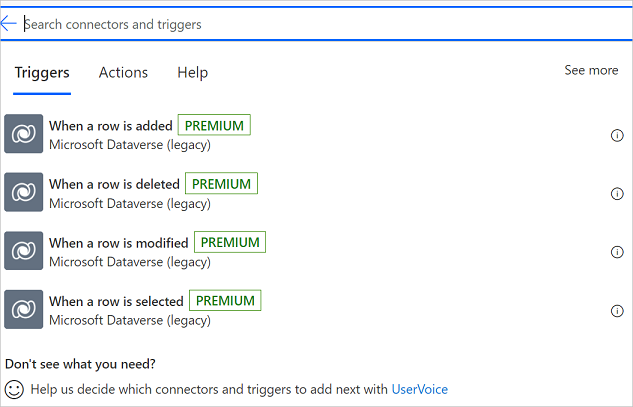
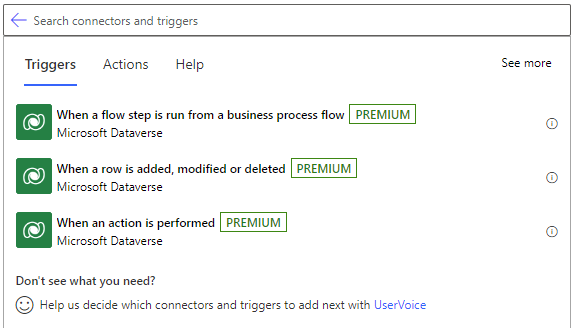
legacy

Changed region(s): [[0.0, 0.0, 1.0, 1.0], [0.2661, 0.1524, 0.3548, 0.2134]]

diff --git a/articles/connection-cds.md b/articles/connection-cds.md
@@ -5,16 +5,15 @@ services: ''
 suite: flow
 documentationcenter: na
 author: MSFTMAN
-manager: KVIVEK
+manager: tapanm
 editor: ''
 tags: ''
-
 ms.devlang: na
 ms.subservice: cloud-flow
 ms.topic: article
 ms.tgt_pltfrm: na
 ms.workload: na
-ms.date: 09/13/2021
+ms.date: 08/12/2022
 ms.author: Deonhe
 search.app: 
   - Flow
@@ -25,25 +24,22 @@ search.audienceType:
 
 # Create an automated flow with Microsoft Dataverse
 
-
-
 >[!IMPORTANT]
->There are three connectors available to connect to Dataverse. Use the recommended [Microsoft Dataverse connector](./dataverse/overview.md). The **Microsoft Dataverse (legacy)** connector, covered in this article, and the [Dynamics 365 connector](/connectors/dynamicscrmonline/) are available if you are unable to use the recommended connector.
+>To connect to Dataverse, use the recommended [Microsoft Dataverse connector](./dataverse/overview.md). The [Dynamics 365 connector](/connectors/dynamicscrmonline/) is also available if you're unable to use the recommended connector.
+>
 
-With the Microsoft Dataverse (legacy) connector, you can create flows that are initiated by create and update events within Dataverse. Additionally, you can perform create, update, retrieve, and delete actions on rows within Dataverse.
+With the Microsoft Dataverse connector, you can create flows that are initiated by create and update events within Dataverse. Additionally, you can perform create, update, retrieve, and delete actions on rows within Dataverse.
 
 ## Initiate a cloud flow from Dataverse
 
 You can use any of the following triggers to initiate your flow.
 
-- When a flow step is run from a business process flow
-- When a row is added
-- When a row is modified
-- When a row is deleted
-- When a action is performed (preview)
+- When a flow step is run from a business process flow.
+- When a row is added, modified, or deleted.
+- When an action is performed.
 
 > [!div class="mx-imgBorder"]
-> ![Select a trigger.](./media/cds-connector/Triggers.png)
+> ![Select a trigger.](./media/cds-connector/triggers.png)
 
 If the selected trigger requires an environment to be selected, then you can choose `(Current)`, which will always use the database within the environment in which Power Automate runs. If you want your flow to always trigger based on an event in a specific environment, select that environment.
 

diff --git a/articles/connection-dynamics365.md b/articles/connection-dynamics365.md
@@ -6,10 +6,9 @@ suite: flow
 documentationcenter: na
 author: JimDaly
 ms.reviewer: deonhe
-
 ms.subservice: cloud-flow
 ms.topic: article
-ms.date: 05/31/2020
+ms.date: 08/12/2022
 ms.author: jdaly
 search.app: 
   - Flow
@@ -26,10 +25,9 @@ search.audienceType:
 >
 > The [Dynamics 365 connector](/connectors/dynamicscrmonline/) is deprecated, but continues to work until removed. More information: [Dynamics 365 Connector is deprecated](/power-platform/important-changes-coming#dynamics-365-connector-is-deprecated).
 > 
-> Do not use the Dynamics 365 connector for new flows. Use the [Microsoft Dataverse connector](/connectors/commondataserviceforapps/) whenever you can. If the Microsoft Dataverse connector does not fit your needs, use the [Microsoft Dataverse (legacy) connector](/connectors/commondataservice/).
+> Don't use the Dynamics 365 connector for new flows. Use the [Microsoft Dataverse connector](/connectors/commondataserviceforapps/).
 >
-> The [Microsoft Dataverse connector](/connectors/commondataserviceforapps/) should be your first choice because it provides the most capability and best performance. However, it does not currently provide certain capabilities that the Dynamics 365 and Microsoft Dataverse connectors do, such as the ability to connect to multiple environments. The [Microsoft Dataverse (legacy)](/connectors/commondataservice/) provides the same capabilities as the Dynamics 365 connector, but also provides substantially improved reliability.
-
+> The [Microsoft Dataverse connector](/connectors/commondataserviceforapps/) should be your first choice because it provides the most capability and best performance. However, it doesn't currently provide certain capabilities that the Dynamics 365 connector does, such as the ability to connect to multiple environments.
 
 By using a Dynamics 365 connector, you can create flows that initiate when an event occurs in Dynamics 365, or some other service, which then performs an action in Dynamics 365, or some other service. 
 
